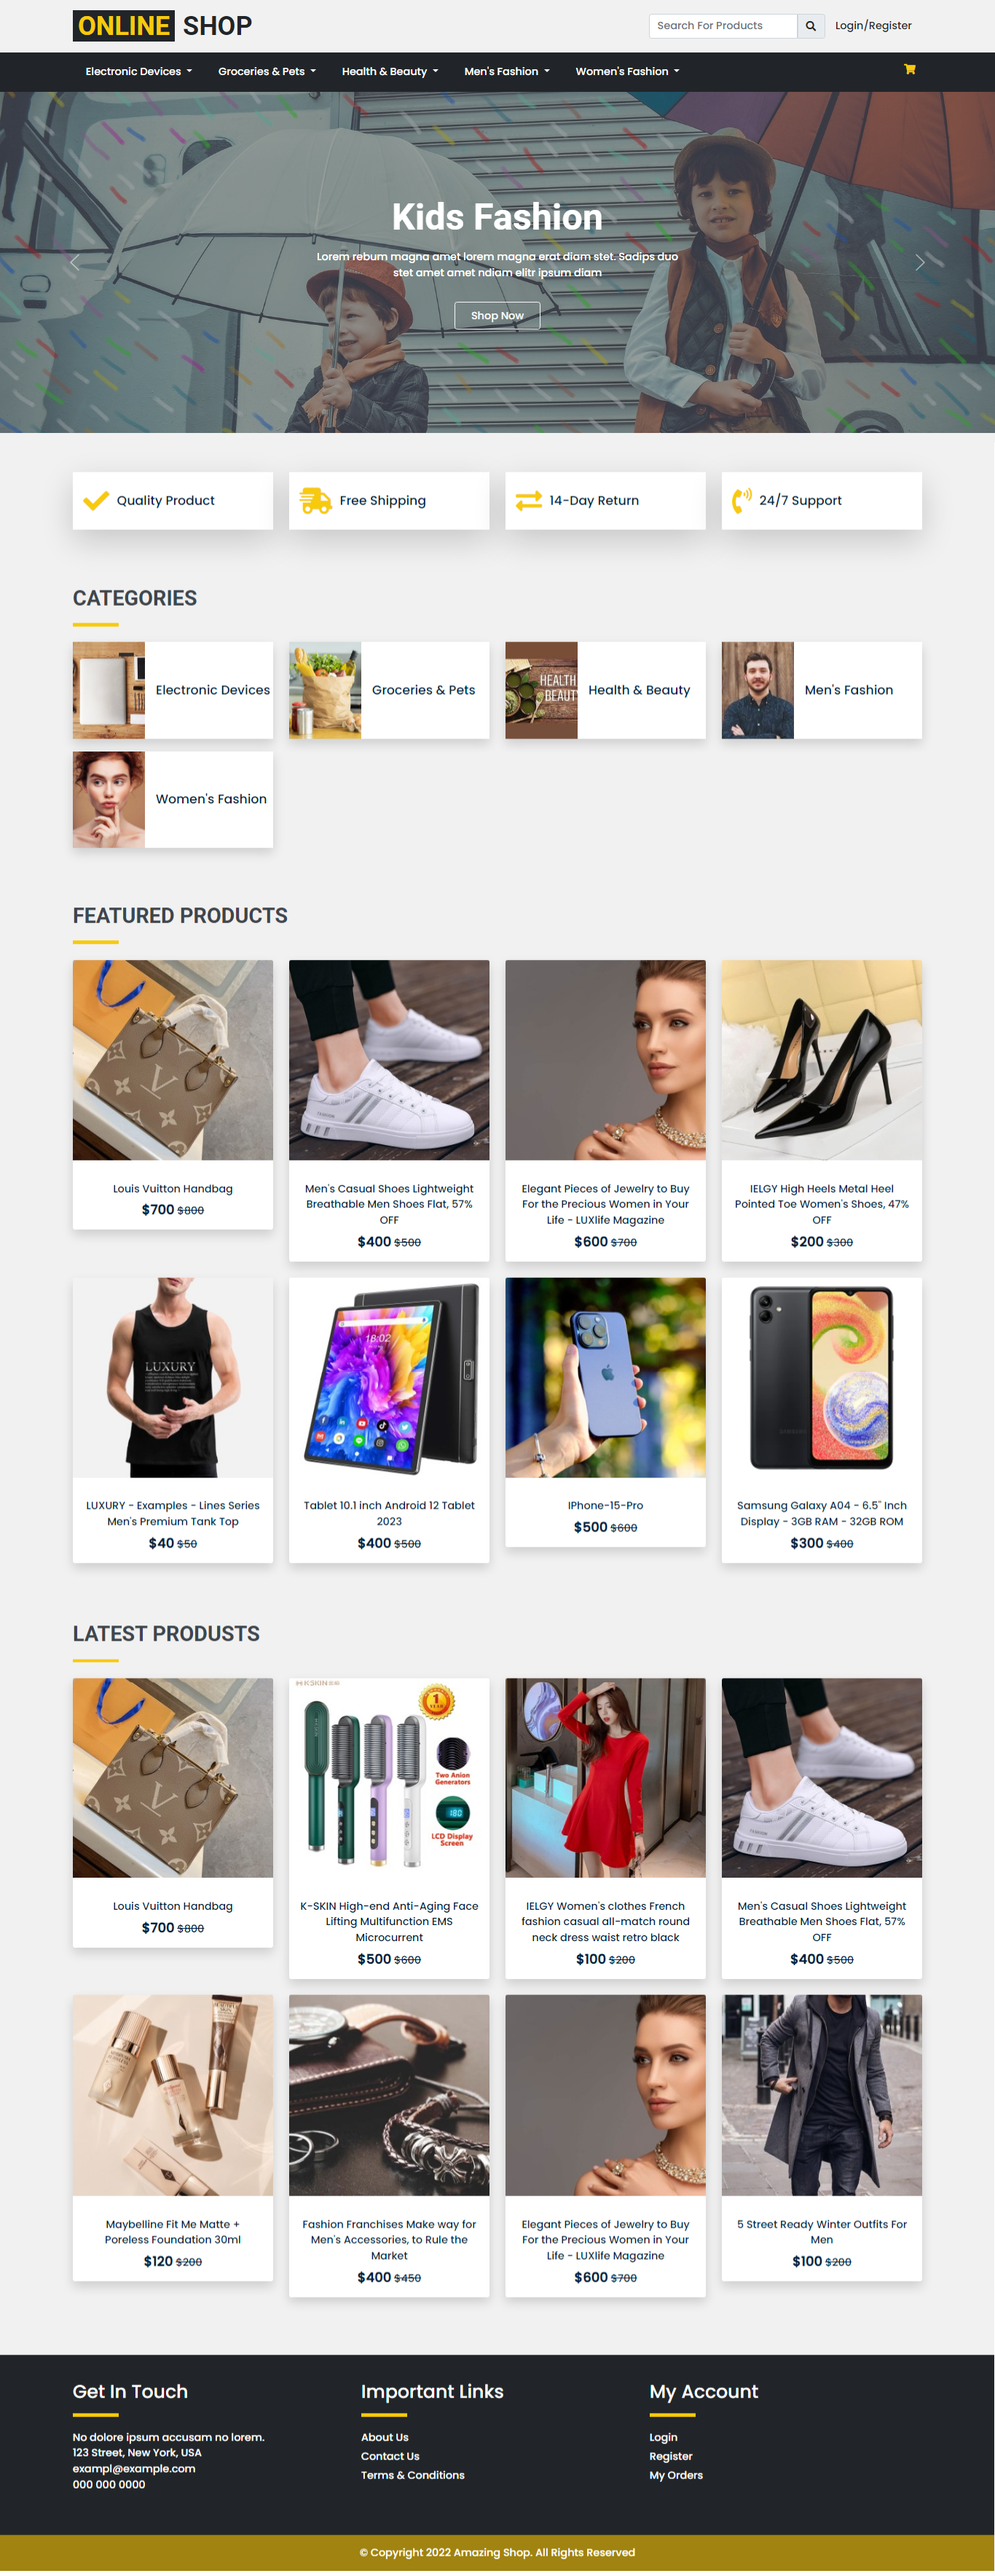
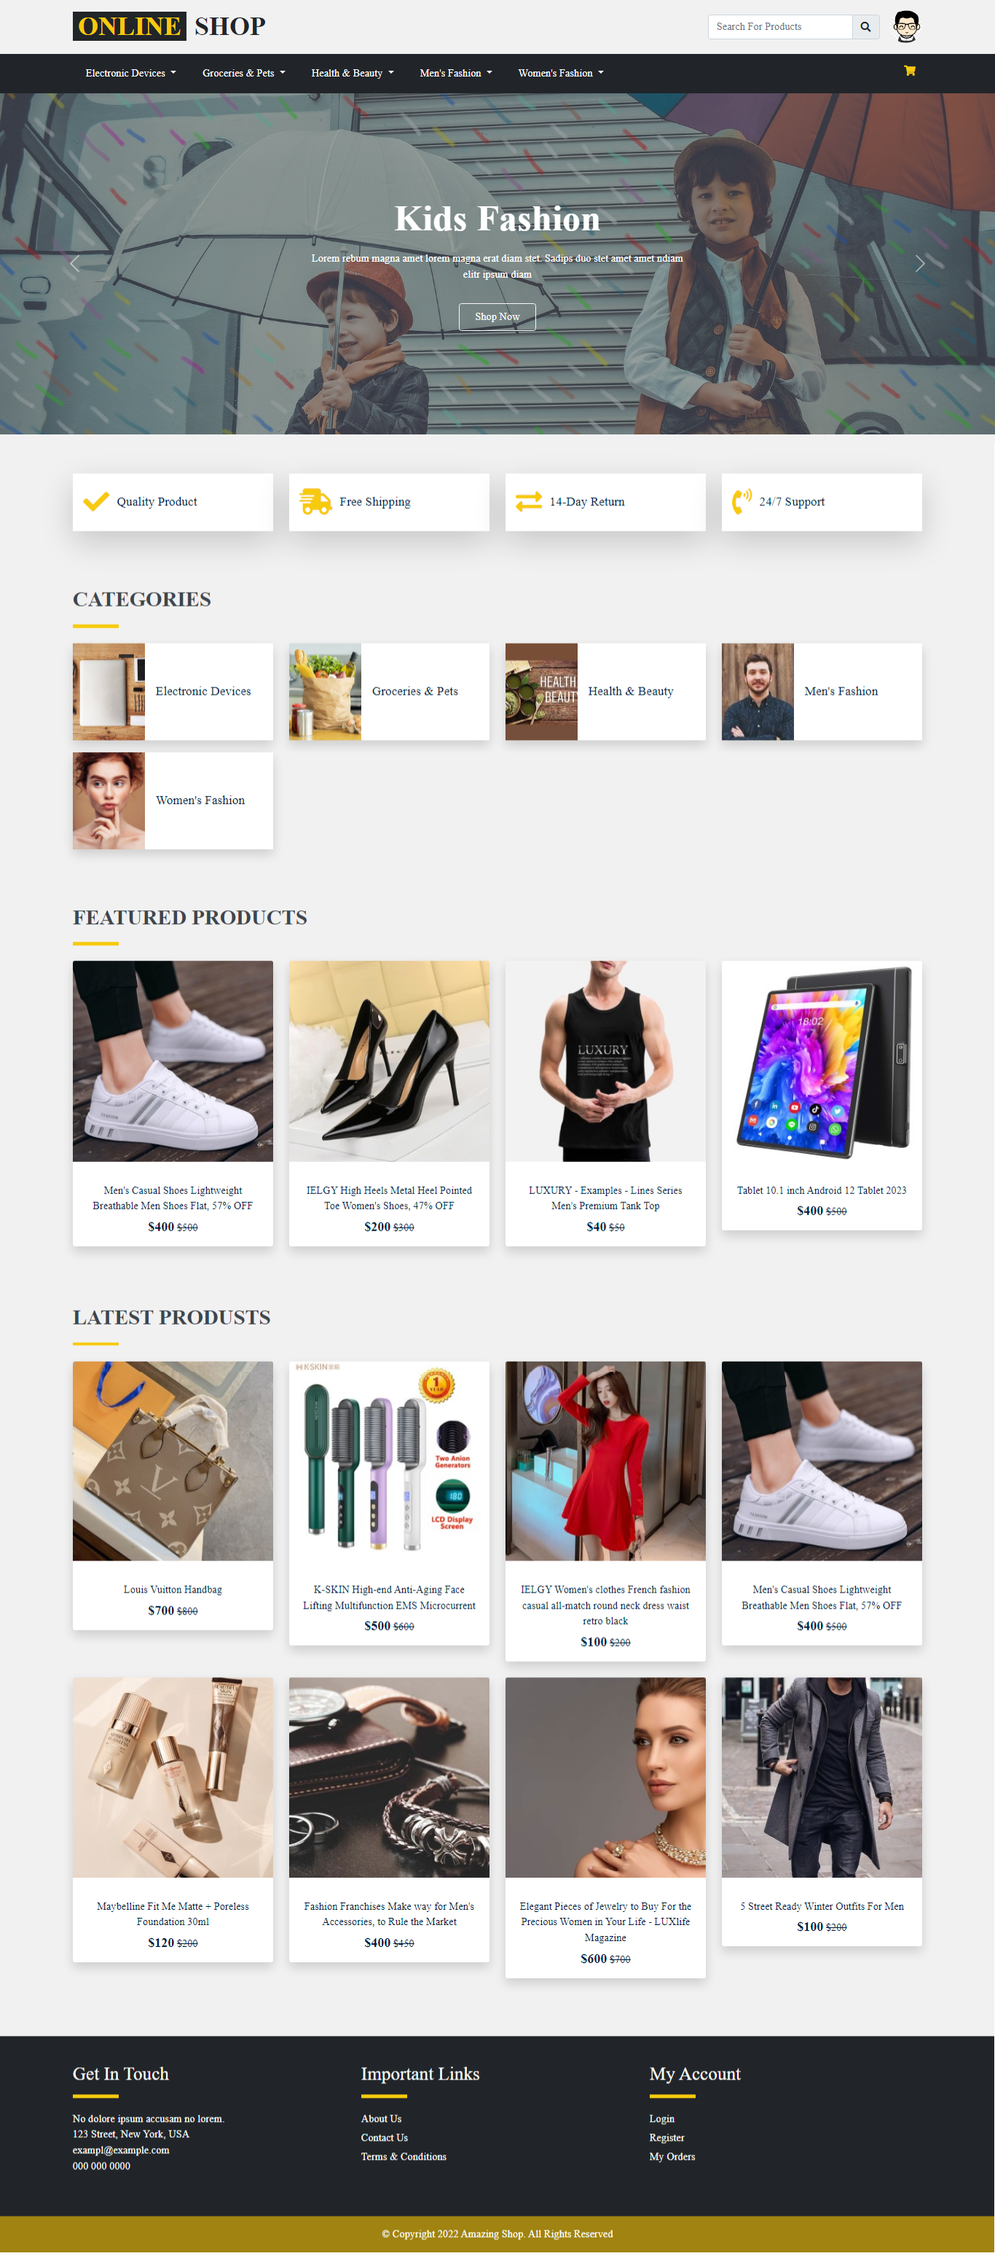
updates

diff --git a/app/Http/Controllers/RolesController.php b/app/Http/Controllers/RolesController.php
@@ -66,6 +66,32 @@ class RolesController extends Controller
         return view('users.roles.show')->with(['role' => $role, 'permissions' => $permissions, 'rolePermissions' => $rolePermissions]);
     }
 
+    private function getRoles()
+    {
+        $data=Role::withCount(['users','permissions'])->get();
+        return DataTables::of($data)
+        ->addColumn('name', function($row)
+        {
+            return ucfirst($row->name);
+        })
+        ->addColumn('users_count', function($row)
+        {
+            return $row->users_count;
+        })
+        ->addColumn('permissions_count', function($row)
+        {
+            return $row->permissions_count;
+        })
+        ->addColumn('action',function($row){
+            $action = "";
+            $action.="<a class='btn btn-sm btn-success' id='btnShow' href='".route('users.roles.show', $row->id)."'><i class='fas fa-eye'></i></a>";
+            $action.=" <a class='btn btn-sm btn-warning' id='btnEdit' href='".route('users.roles.edit', $row->id)."'><i class='fas fa-edit'></i></a>";
+            $action.=" <button class='btn btn-sm btn-outline-danger' data-id='" .$row->id. "' id='btnDel'><i class='fas fa-trash'></i></button>";
+            return $action;
+        })
+        ->make(true);
+    }
+    
     /**
      * Show the form for editing the specified resource.
      */
@@ -113,31 +139,7 @@ class RolesController extends Controller
 
     }
 
-    private function getRoles()
-    {
-        $data=Role::withCount(['users','permissions'])->get();
-        return DataTables::of($data)
-        ->addColumn('name', function($row)
-        {
-            return ucfirst($row->name);
-        })
-        ->addColumn('users_count', function($row)
-        {
-            return $row->users_count;
-        })
-        ->addColumn('permissions_count', function($row)
-        {
-            return $row->permissions_count;
-        })
-        ->addColumn('action',function($row){
-            $action = "";
-            $action.="<a class='btn btn-sm btn-success' id='btnShow' href='".route('users.roles.show', $row->id)."'><i class='fas fa-eye'></i></a>";
-            $action.=" <a class='btn btn-sm btn-warning' id='btnEdit' href='".route('users.roles.edit', $row->id)."'><i class='fas fa-edit'></i></a>";
-            $action.=" <button class='btn btn-sm btn-outline-danger' data-id='" .$row->id. "' id='btnDel'><i class='fas fa-trash'></i></button>";
-            return $action;
-        })
-        ->make(true);
-    }
+
 
     private function getRolesPermissions($role)
     {

diff --git a/resources/views/front/product.blade.php b/resources/views/front/product.blade.php
@@ -42,13 +42,6 @@
                     <div class="bg-light right">
                         <h1>{{ $product->title }}</h1>
                         <div class="d-flex mb-3">
-                            {{-- <div class="text-primary mr-2">
-                                <small class="fas fa-star"></small>
-                                <small class="fas fa-star"></small>
-                                <small class="fas fa-star"></small>
-                                <small class="fas fa-star-half-alt"></small>
-                                <small class="far fa-star"></small>
-                            </div> --}}
                             <div class="star-rating product mt-2" title="">
                                 <div class="back-stars">
                                     <i class="fa fa-star" aria-hidden="true"></i>

diff --git a/routes/web.php b/routes/web.php
@@ -99,8 +99,8 @@ Route::group(['prefix' => 'admin'], function () {
     Route::post('/authenticate', [AdminLoginController::class, 'authenticate'])->name('admin.authenticate');
 
 
-    //    Route::group(['middleware' => 'admin.auth'], function () {
-    Route::group(['middleware' => ['admin.auth', 'permission']], function () {
+       Route::group(['middleware' => 'admin.auth'], function () {
+    // Route::group(['middleware' => ['admin.auth', 'permission']], function () {
 
         Route::get('/dashboard', [HomeController::class, 'index'])->name('admin.dashboard');
         Route::get('/logout', [HomeController::class, 'logout'])->name('admin.logout');

diff --git a/app/Http/Controllers/Admin/CategoryController.php b/app/Http/Controllers/Admin/CategoryController.php
@@ -8,11 +8,8 @@ use Illuminate\Support\Facades\Validator;
 use App\Models\Category;
 use App\Models\TempImage;
 use Illuminate\Support\Facades\File;
-use Illuminate\Support\Facades\Session;
 use Intervention\Image\Facades\Image;
 use Carbon\Carbon;
-use Illuminate\Database\QueryException;
-use Illuminate\Support\Facades\Log;
 
 class CategoryController extends Controller
 {

diff --git a/app/Http/Controllers/FrontController.php b/app/Http/Controllers/FrontController.php
@@ -19,7 +19,7 @@ class FrontController extends Controller
 
         $products = Product::where('is_featured', 'Yes')
             ->orderBy('id', 'DESC')
-            ->take(8)
+            ->take(4)
             ->where('status', 1)
             ->get();
         $data['featuredProducts'] = $products;
